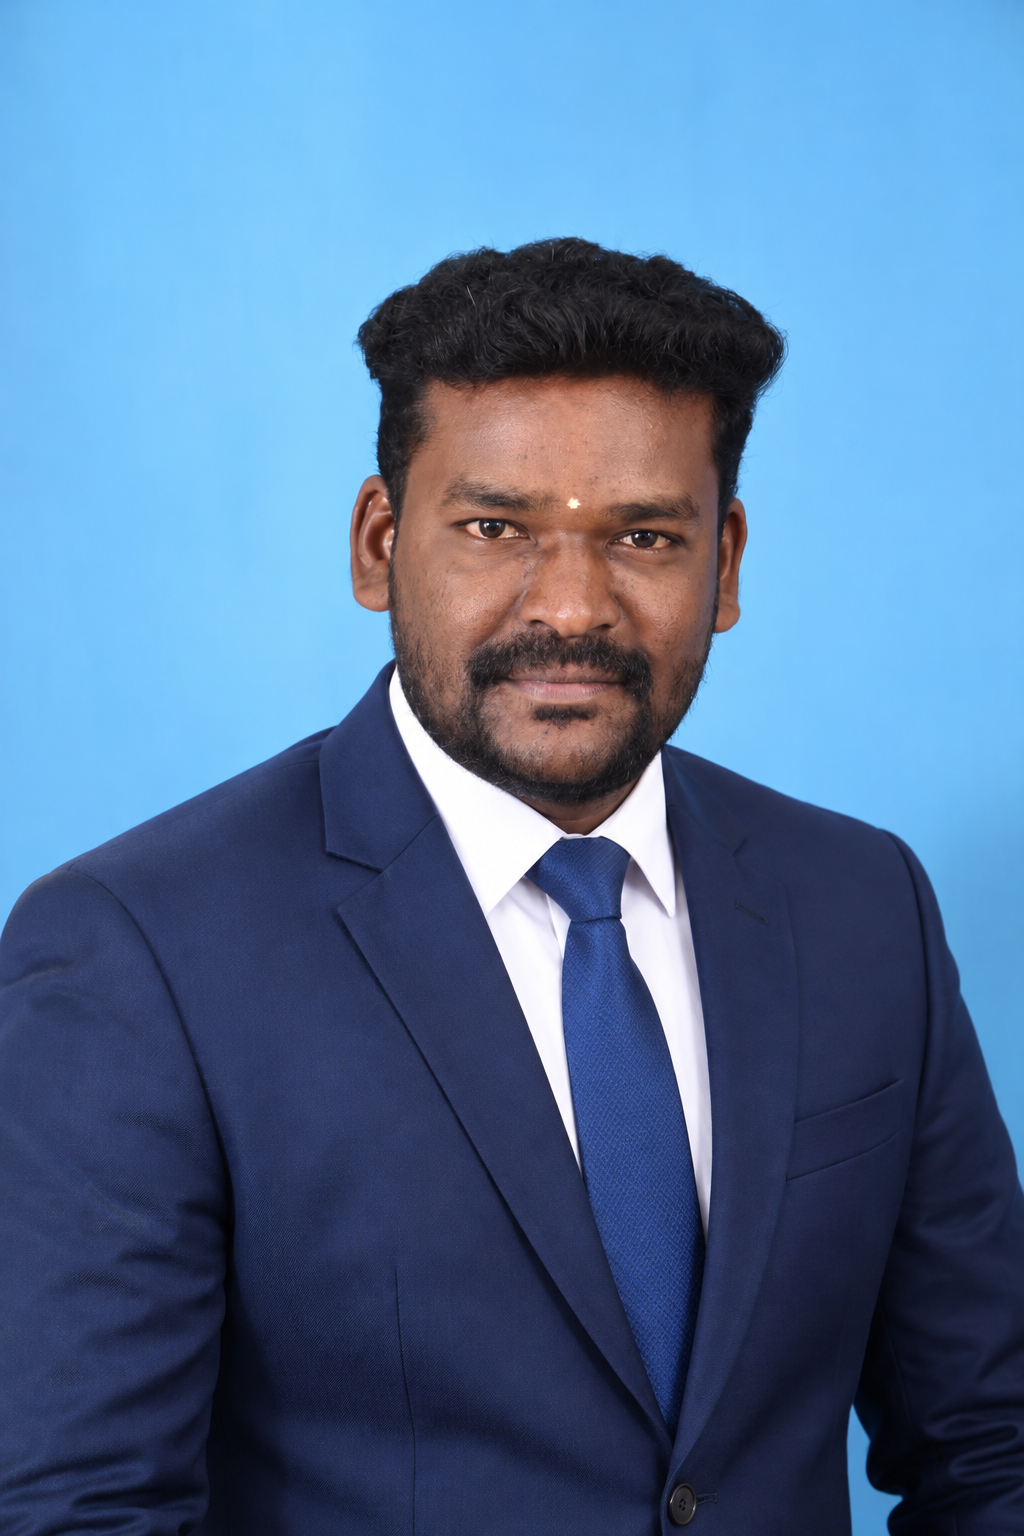
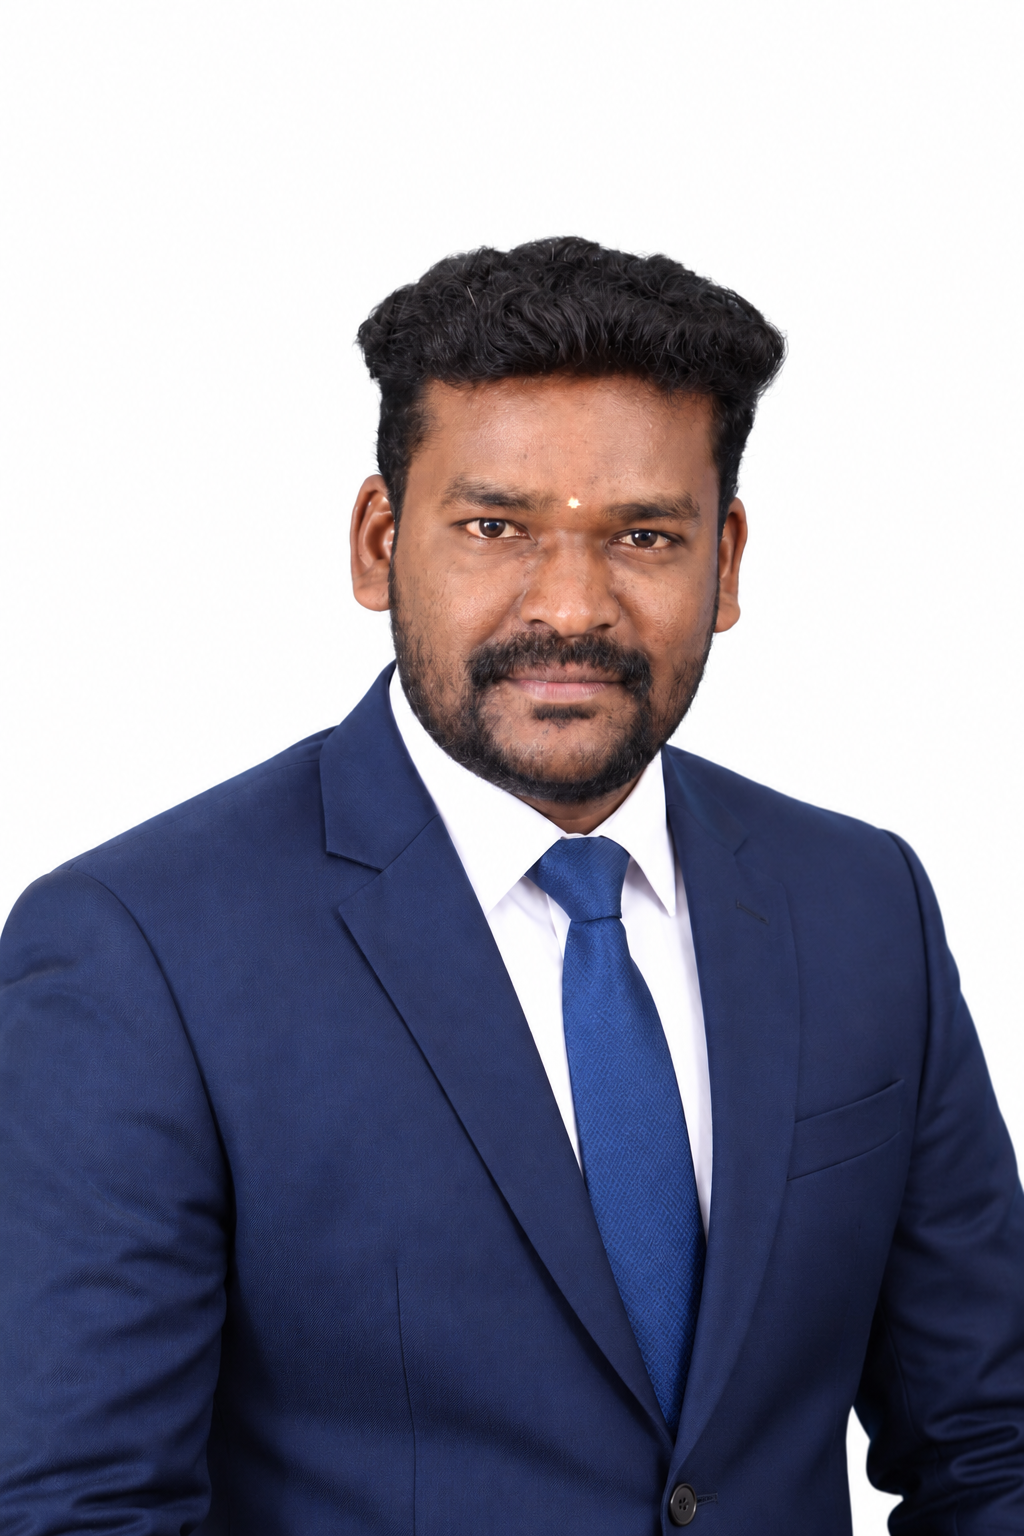
update

diff --git a/index.html b/index.html
@@ -129,7 +129,7 @@
       <!-- 1. PRESIDENT -->
       <article class="leader-card">
         <div class="leader-photo">
-          <img src="assets/images/president-radhika.jpeg"
+          <img src="assets/images/president-radhika.png"
                alt="Ln. Mrs. M. Radhika Senthilingam"
                loading="lazy">
         </div>
@@ -140,6 +140,35 @@
         </div>
       </article>
 
+         <!-- 3. SECRETARY -->
+      <article class="leader-card">
+        <div class="leader-photo">
+          <img src="assets/images/secretary-senthilgam.png"
+               alt="Dr. S. Senthilingam"
+               loading="lazy">
+        </div>
+        <div class="leader-meta">
+          <span>SECRETARY</span>
+          <h3>Dr. S. Senthilingam</h3>
+          <p>
+            M.A., M.A., M.Phil., M.A., M.Ed.,
+            B.L.I.Sc., C.Music, Ph.D., LL.B.
+          </p>
+        </div>
+      </article>
+ <!-- 5. TREASURER -->
+      <article class="leader-card">
+        <div class="leader-photo">
+          <img src="assets/images/treasurer-muthupandi.jpeg"
+               alt="Adv. S. Muthu Pandi"
+               loading="lazy">
+        </div>
+        <div class="leader-meta">
+          <span>TREASURER</span>
+          <h3>Adv. S. Muthu Pandi</h3>
+          <p>M.E., LL.B., M.B.A.</p>
+        </div>
+      </article>
       <!-- 2. VICE PRESIDENT -->
       <article class="leader-card">
         <div class="leader-photo">
@@ -154,22 +183,7 @@
         </div>
       </article>
 
-      <!-- 3. SECRETARY -->
-      <article class="leader-card">
-        <div class="leader-photo">
-          <img src="assets/images/secretary-senthilgam.jpeg"
-               alt="Dr. S. Senthilingam"
-               loading="lazy">
-        </div>
-        <div class="leader-meta">
-          <span>SECRETARY</span>
-          <h3>Dr. S. Senthilingam</h3>
-          <p>
-            M.A., M.A., M.Phil., M.A., M.Ed.,
-            B.L.I.Sc., C.Music, Ph.D., LL.B.
-          </p>
-        </div>
-      </article>
+   
 
       <!-- 4. JOINT SECRETARY -->
       <article class="leader-card">
@@ -185,17 +199,31 @@
         </div>
       </article>
 
-      <!-- 5. TREASURER -->
+          <!-- 7. EXECUTIVE MEMBER -->
       <article class="leader-card">
         <div class="leader-photo">
-          <img src="assets/images/treasurer-muthupandi.jpeg"
-               alt="Adv. S. Muthu Pandi"
+          <img src="assets/images/executive-sirajsikkandar.png"
+               alt="Mr. M. Siraj Sikkandar"
                loading="lazy">
         </div>
         <div class="leader-meta">
-          <span>TREASURER</span>
-          <h3>Adv. S. Muthu Pandi</h3>
-          <p>M.E., LL.B., M.B.A.</p>
+          <span>EXECUTIVE MEMBER</span>
+          <h3>Mr. M. Siraj Sikkandar</h3>
+        </div>
+      </article>
+     
+
+        <!-- 8. EXECUTIVE MEMBER -->
+      <article class="leader-card">
+        <div class="leader-photo">
+          <img src="assets/images/varun.png"
+               alt="Mr. M. Varun"
+               loading="lazy">
+        </div>
+        <div class="leader-meta">
+          <span>EXECUTIVE MEMBER</span>
+          <h3>Mr. M. Varun</h3>
+          <p>B.Com. (Accounting and Finance)</p>
         </div>
       </article>
 
@@ -212,32 +240,9 @@
         </div>
       </article>
 
-      <!-- 7. EXECUTIVE MEMBER -->
-      <article class="leader-card">
-        <div class="leader-photo">
-          <img src="assets/images/executive-sirajsikkandar.png"
-               alt="Mr. M. Siraj Sikkandar"
-               loading="lazy">
-        </div>
-        <div class="leader-meta">
-          <span>EXECUTIVE MEMBER</span>
-          <h3>Mr. M. Siraj Sikkandar</h3>
-        </div>
-      </article>
+  
 
-      <!-- 8. EXECUTIVE MEMBER -->
-      <article class="leader-card">
-        <div class="leader-photo">
-          <img src="assets/images/varun.png"
-               alt="Mr. M. Varun"
-               loading="lazy">
-        </div>
-        <div class="leader-meta">
-          <span>EXECUTIVE MEMBER</span>
-          <h3>Mr. M. Varun</h3>
-          <p>B.Com. (Accounting and Finance)</p>
-        </div>
-      </article>
+    
 
     </div>
   </div>
